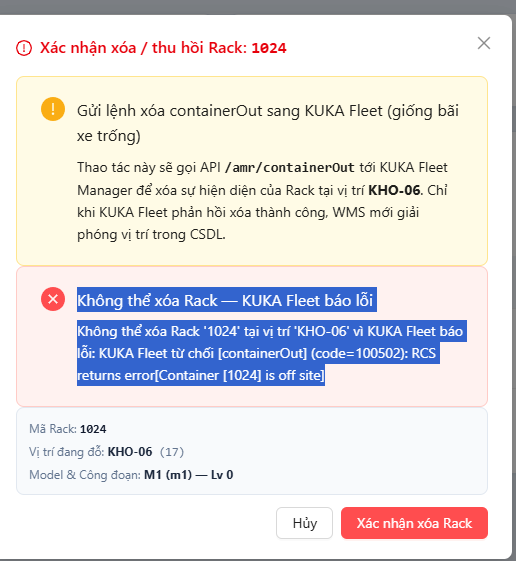
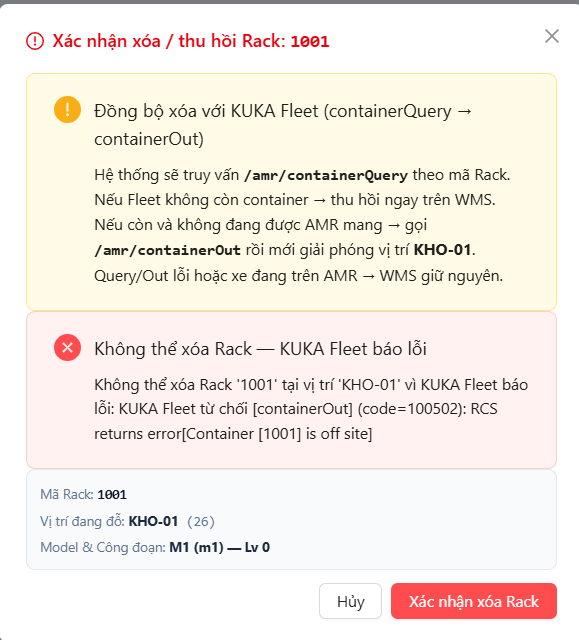
debug/ adding log

Changed region(s): [[0.0, 0.0, 1.0, 1.0], [0.031, 0.7576, 0.4651, 0.8788]]

diff --git a/backend/app/modules/production/rack_service.py b/backend/app/modules/production/rack_service.py
@@ -418,9 +418,26 @@ def remove_rack_container(
 
     bind_context(container_code=c_code, station_code=loc_code or None)
 
+    logger.info(
+        "[remove_rack] step=1_start rack_id=%s container=%s loc=%s loc_code=%s "
+        "fleet_registered=%s status=%s is_active=%s operator_id=%s",
+        rack_id,
+        c_code,
+        loc_display,
+        loc_code or None,
+        bool(cart.fleet_registered),
+        cart.status,
+        bool(cart.is_active),
+        operator_id,
+    )
+
     called_fleet_out = False
     skipped_fleet_absent = False
 
+    logger.info(
+        "[remove_rack] step=2_containerQuery_request container=%s emptyFullStatus=2",
+        c_code,
+    )
     try:
         query_resp = dispatch_service.fleet_container_query(
             container_code=c_code,
@@ -430,7 +447,7 @@ def remove_rack_container(
     except Exception as e:
         db.commit()
         logger.error(
-            "Xóa Rack '%s' thất bại do KUKA Fleet lỗi/timeout containerQuery: %s",
+            "[remove_rack] step=2_containerQuery_FAIL container=%s error=%s — giữ nguyên WMS",
             c_code,
             e,
             exc_info=True,
@@ -440,11 +457,39 @@ def remove_rack_container(
             f"(containerQuery lỗi/timeout). WMS giữ nguyên. Chi tiết: {e}"
         ) from e
 
+    raw_data = query_resp.get("data") if isinstance(query_resp, dict) else None
+    raw_count = len(raw_data) if isinstance(raw_data, list) else None
+    logger.info(
+        "[remove_rack] step=2_containerQuery_OK container=%s fleet_success=%s fleet_code=%s "
+        "raw_data_count=%s",
+        c_code,
+        query_resp.get("success") if isinstance(query_resp, dict) else None,
+        query_resp.get("code") if isinstance(query_resp, dict) else None,
+        raw_count,
+    )
+
     hits = _fleet_query_hits_for_container(query_resp, c_code)
+    logger.info(
+        "[remove_rack] step=3_match_hits container=%s matched_count=%s hits=%s",
+        c_code,
+        len(hits),
+        [
+            {
+                "containerCode": h.get("containerCode") or h.get("container_code"),
+                "nodeCode": h.get("nodeCode") or h.get("node_code"),
+                "isCarry": h.get("isCarry", h.get("is_carry")),
+                "inMapStatus": h.get("inMapStatus", h.get("in_map_status")),
+                "emptyFullStatus": h.get("emptyFullStatus", h.get("empty_full_status")),
+            }
+            for h in hits
+        ],
+    )
+
     if not hits:
         skipped_fleet_absent = True
         logger.info(
-            "Xóa Rack '%s': containerQuery trả về rỗng — bỏ qua containerOut, thu hồi trên WMS.",
+            "[remove_rack] step=4_decision SKIP_containerOut reason=query_empty "
+            "container=%s → sẽ thu hồi WMS",
             c_code,
         )
     else:
@@ -453,6 +498,12 @@ def remove_rack_container(
             if str(h.get("isCarry", h.get("is_carry", "0"))).strip() in ("1", "true", "True")
         ]
         if carrying:
+            logger.warning(
+                "[remove_rack] step=4_decision BLOCK reason=isCarry=1 container=%s carrying=%s "
+                "— giữ nguyên WMS",
+                c_code,
+                carrying,
+            )
             raise ValueError(
                 f"Không thể xóa Rack '{c_code}': KUKA Fleet báo container đang được AMR mang "
                 f"(isCarry=1). Hãy đợi nhiệm vụ kết thúc rồi thử lại."
@@ -463,6 +514,13 @@ def remove_rack_container(
         if not out_position:
             out_position = str(hits[0].get("nodeCode") or hits[0].get("node_code") or "").strip()
 
+        logger.info(
+            "[remove_rack] step=4_decision CALL_containerOut container=%s position=%s "
+            "(wms_loc_code=%s)",
+            c_code,
+            out_position or None,
+            loc_code or None,
+        )
         try:
             dispatch_service.fleet_container_out(
                 location_code=out_position,
@@ -470,11 +528,18 @@ def remove_rack_container(
                 db=db,
             )
             called_fleet_out = True
+            logger.info(
+                "[remove_rack] step=5_containerOut_OK container=%s position=%s",
+                c_code,
+                out_position or None,
+            )
         except Exception as e:
             db.commit()
             logger.error(
-                "Xóa Rack '%s' thất bại do KUKA Fleet báo lỗi containerOut: %s",
+                "[remove_rack] step=5_containerOut_FAIL container=%s position=%s error=%s "
+                "— giữ nguyên WMS",
                 c_code,
+                out_position or None,
                 e,
                 exc_info=True,
             )
@@ -482,6 +547,14 @@ def remove_rack_container(
                 f"Không thể xóa Rack '{c_code}' tại vị trí '{loc_display}' vì KUKA Fleet báo lỗi "
                 f"containerOut: {e}"
             ) from e
+
+    logger.info(
+        "[remove_rack] step=6_wms_deactivate_begin container=%s called_fleet_out=%s "
+        "skipped_fleet_absent=%s",
+        c_code,
+        called_fleet_out,
+        skipped_fleet_absent,
+    )
 
     cart.location_id = None
     cart.destination_location_id = None
@@ -503,11 +576,25 @@ def remove_rack_container(
     db.commit()
     db.refresh(cart)
 
+    logger.info(
+        "[remove_rack] step=7_wms_commit_OK container=%s is_active=%s status=%s "
+        "fleet_registered=%s location_id=%s",
+        c_code,
+        bool(cart.is_active),
+        cart.status,
+        bool(cart.fleet_registered),
+        cart.location_id,
+    )
+
     try:
         dispatch_service.try_resolve_waiting_slot_queue(db)
         dispatch_service.try_resolve_waiting_cart_queue(db)
     except Exception as exc:
-        logger.warning("Queue scan after rack removal failed: %s", exc)
+        logger.warning(
+            "[remove_rack] step=8_queue_scan_WARN container=%s error=%s",
+            c_code,
+            exc,
+        )
 
     publish_event(
         "floor.changed",
@@ -532,6 +619,17 @@ def remove_rack_container(
         )
     else:
         msg = f"Đã thu hồi Rack '{c_code}' khỏi WMS thành công."
+
+    logger.info(
+        "[remove_rack] step=9_done container=%s path=%s message=%s",
+        c_code,
+        (
+            "query_hit_then_out"
+            if called_fleet_out
+            else ("query_empty_skip_out" if skipped_fleet_absent else "other")
+        ),
+        msg,
+    )
 
     return {
         "success": True,
